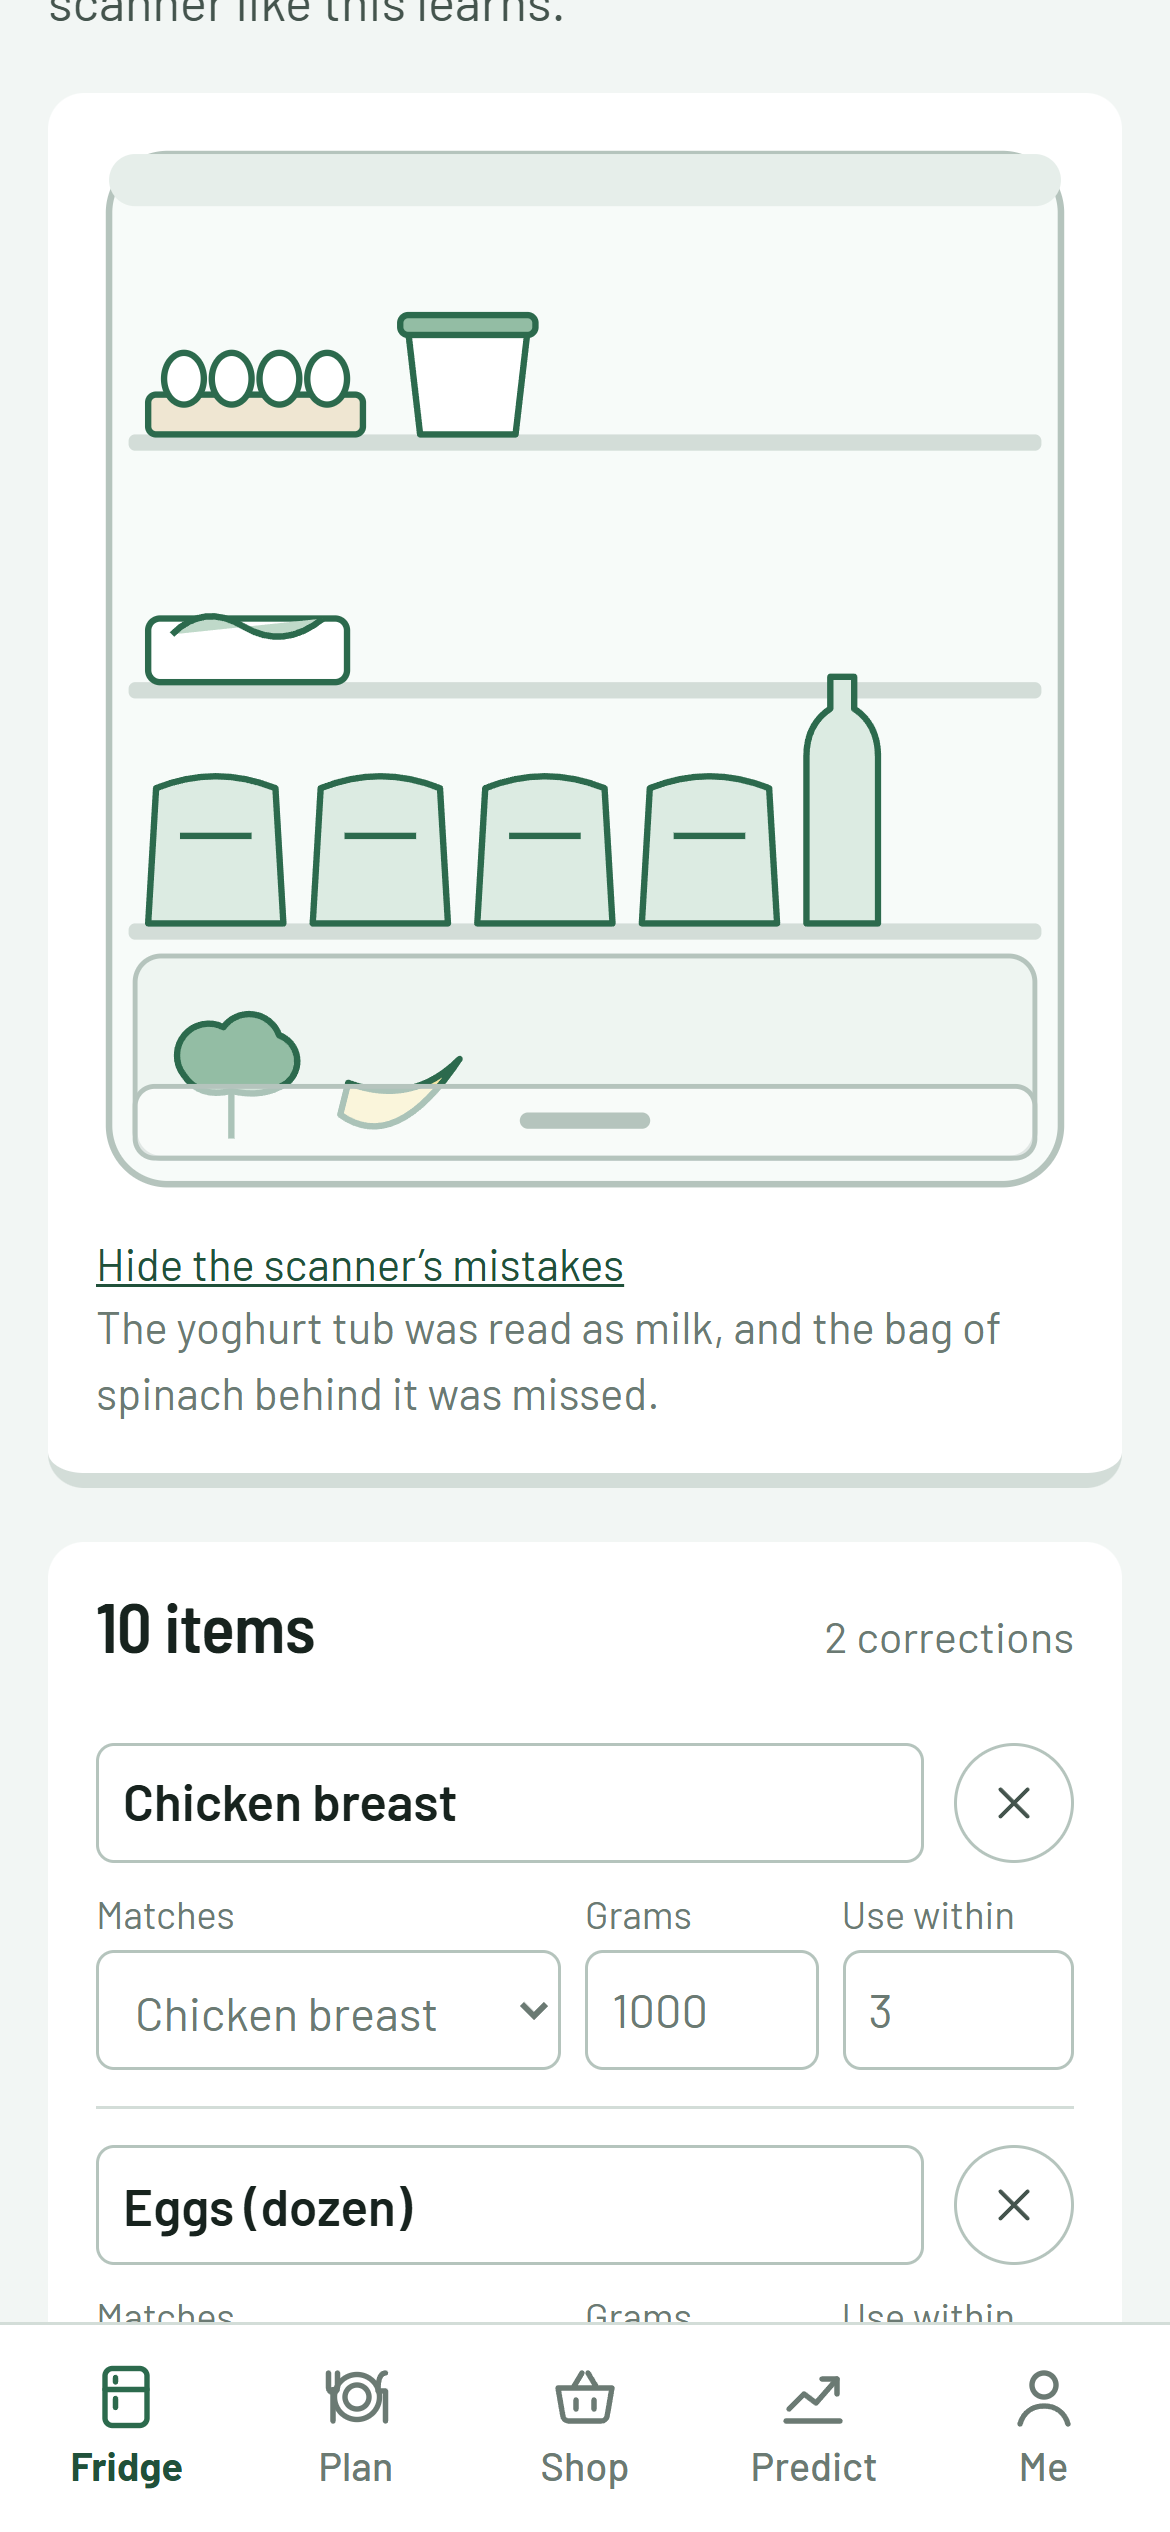
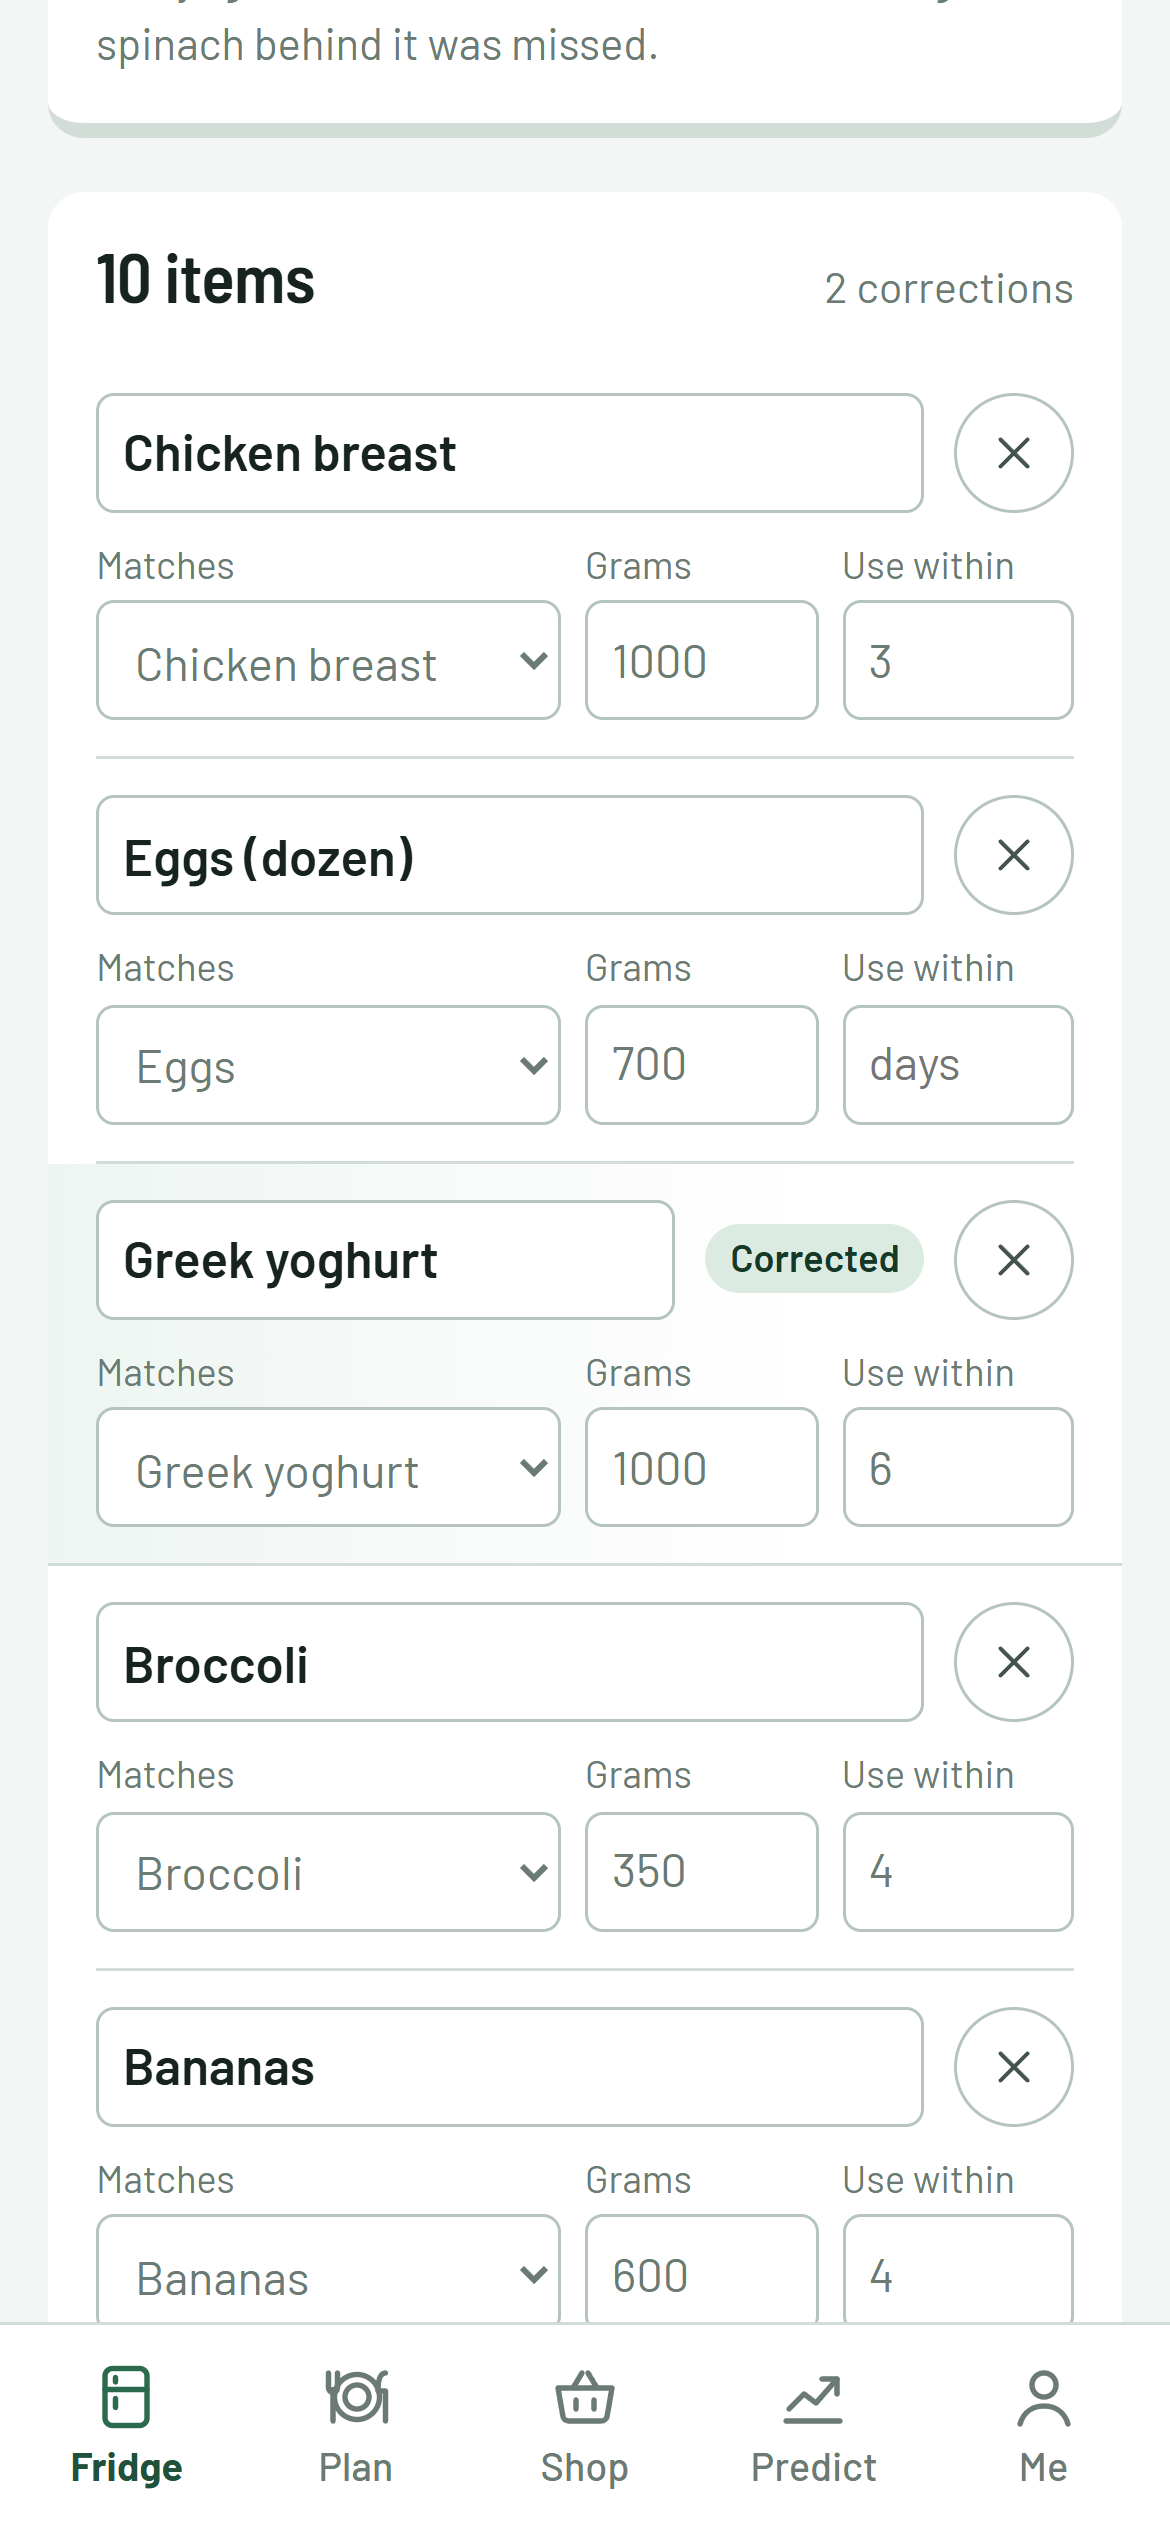
Frame the corrected-items screenshot on the edited rows

Changed region(s): [[0.0615, 0.0, 0.9538, 0.5928], [0.0615, 0.624, 0.9231, 0.936], [0.8923, 0.8736, 0.9231, 0.9048]]

diff --git a/e2e/screenshots.spec.ts b/e2e/screenshots.spec.ts
@@ -88,7 +88,11 @@ test('confirm with scanner mistakes', async ({ page }) => {
   await page.getByRole('textbox', { name: 'Item name' }).last().fill('Baby spinach bag')
   await page.locator('select').last().selectOption('spinach')
   await page.getByRole('button', { name: /Stuck/ }).click()
-  await shoot(page, '05-confirm-corrected')
+  await page.evaluate(() => document.fonts.ready)
+  await page.screenshot({ path: `${OUT}/full/05-confirm-corrected.png`, fullPage: true })
+  // Viewport shot framed on the corrected rows, for the README and deck.
+  await page.getByRole('heading', { name: /items$/ }).evaluate((el) => window.scrollTo(0, el.getBoundingClientRect().top + window.scrollY - 80))
+  await page.screenshot({ path: `${OUT}/05-confirm-corrected.png` })
 })
 
 test('plan', async ({ page }) => {
